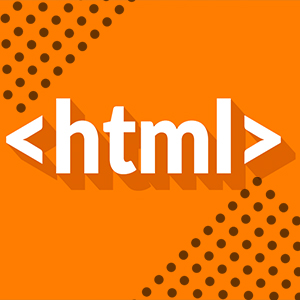
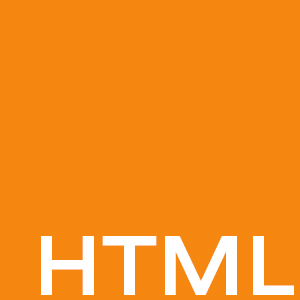
adding assets refactoring css on home page

diff --git a/src/app/exercisearea/exercisearea.component.ts b/src/app/exercisearea/exercisearea.component.ts
@@ -21,18 +21,15 @@ export class ExerciseareaComponent {
     if (event.target.value === this.exercise.data[this.exercise.number]) {
       this.updateExerciseData();
       (document.getElementById('userInput') as HTMLInputElement).value = '';
-
     } else if (event.key === 'Backspace') {
       this.corrections++;
       this.cardEffects.error();
-
     }
   }
 
   start() {
     this.hasStarted = true;
     this.exercise.number = 0;
-    console.log(this.exercise.data[this.exercise.number]);
     this.timer.startCount();
   }
 
@@ -42,7 +39,6 @@ export class ExerciseareaComponent {
       this.exercise.accuracy = 100;
     } else {
       this.exercise.accuracy = Math.round(10 * (this.expectedAccuracy - this.corrections / this.expectedAccuracy));
-      console.log('correction' + this.corrections);
     }
   }
 
@@ -50,7 +46,6 @@ export class ExerciseareaComponent {
     if (this.exercise.number < this.exercise.data.length - 1) {
       this.exercise.number++;
       this.expectedAccuracy += this.exercise.data[this.exercise.number].length;
-      console.log(this.exercise.data.length);
     } else {
       this.getAccuracy();
       this.hasFinished = true;
@@ -60,10 +55,10 @@ export class ExerciseareaComponent {
 
   restart() {
     this.cardEffects.shorten();
+    this.timer.clearCount();
     this.corrections = 0;
     this.expectedAccuracy = 0;
     this.hasStarted = false;
     this.hasFinished = false;
-    this.timer.clearCount();
   }
 }

diff --git a/src/app/topinfo/topinfo.component.html b/src/app/topinfo/topinfo.component.html
@@ -1,12 +1,14 @@
-<div class="introContainer">
-  <h1>Code Faster.</h1>
-  <h1>Build muscle memory</h1>
-  <h1>by typing common syntax.</h1>
-  <p>
-    Fast Coder has exercises for multiple languages. Turbocharge your coding by
-    selecting an exercise.
-  </p>
-  <button [ngx-scroll-to]="'exerciseSelection'" class="buttonMain">
-    Learn more
-  </button>
+<div class="flexContainer">
+  <div class="introContainer">
+    <h1>Code Faster.</h1>
+    <h1>Build muscle memory</h1>
+    <h1>by typing common syntax.</h1>
+    <p>
+      Fast Coder has exercises for multiple languages. Turbocharge your coding
+      by selecting an exercise.
+    </p>
+    <button [ngx-scroll-to]="'exerciseSelection'" class="buttonMain">
+      Learn more
+    </button>
+  </div>
 </div>

diff --git a/src/app/topinfo/topinfo.component.scss b/src/app/topinfo/topinfo.component.scss
@@ -1,3 +1,7 @@
+.flexContainer {
+  display: flex;
+  flex-direction: row;
+}
 .introContainer {
   padding-left: 10%;
   padding-top: 60px;
@@ -16,6 +20,13 @@
     font-weight: 300;
     width: 650px;
     padding-top: 2px;
+  }
+}
+.rightContainer {
+  img {
+    width: 42%;
+    padding-top: 9%;
+    padding-left: 50%;
   }
 }
 @media screen and (min-device-width: 1200px) and (max-device-width: 1600px) and (-webkit-min-device-pixel-ratio: 2) and (min-resolution: 192dpi) {

diff --git a/src/index.html b/src/index.html
@@ -2,7 +2,7 @@
 <html lang="en">
   <head>
     <meta charset="utf-8" />
-    <title>Fastcoderapp</title>
+    <title>Fast Coder</title>
     <base href="/" />
 
     <meta name="viewport" content="width=device-width" />

diff --git a/src/app/scss/components/_selectionCards.scss b/src/app/scss/components/_selectionCards.scss
@@ -1,7 +1,7 @@
 .card {
   box-shadow: 0 4px 8px 0 rgba(0, 0, 0, 0.2);
   transition: 0.3s;
-  width: 100%;
+  width: 88%;
 }
 .card:hover {
   box-shadow: 0 8px 16px 0 rgba(0, 0, 0, 0.2);

diff --git a/src/app/services/timer.service.ts b/src/app/services/timer.service.ts
@@ -18,7 +18,6 @@ export class TimerService {
 
   clearCount() {
     window.clearInterval(this.name);
-    console.log(this.elapsed);
   }
 
 }
